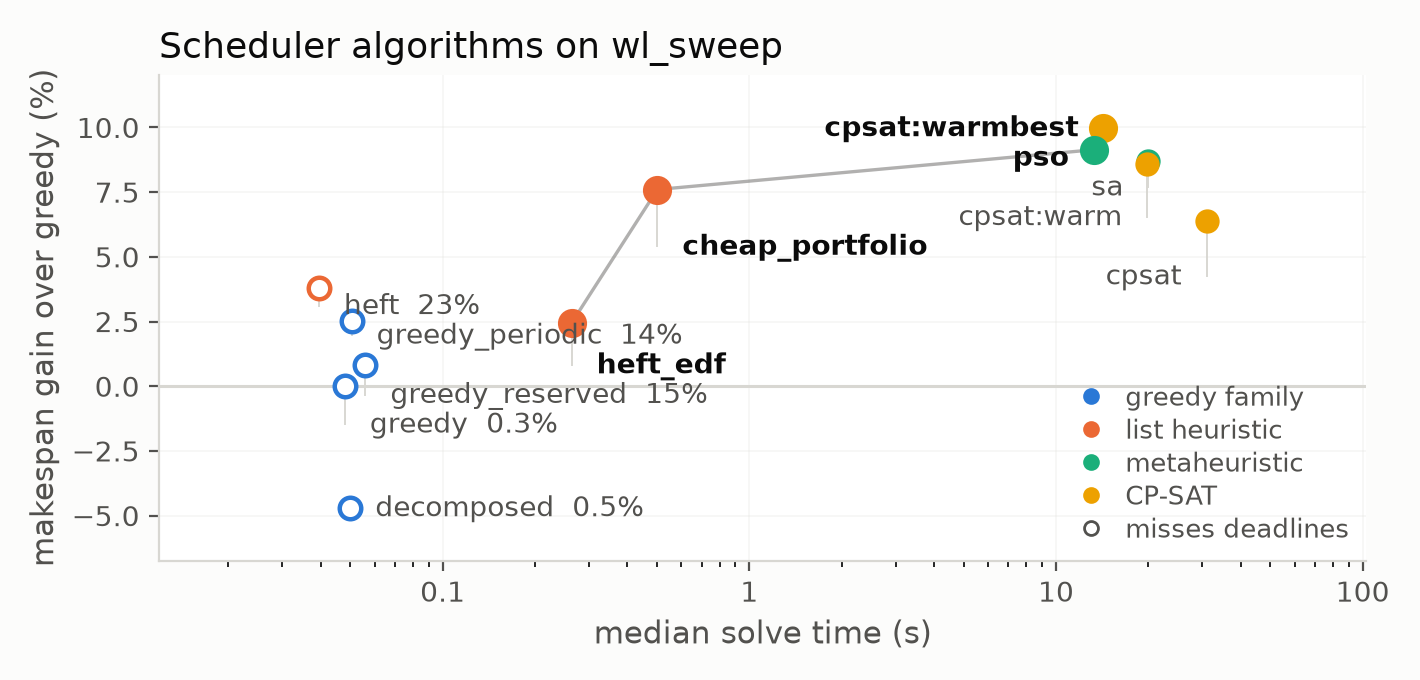
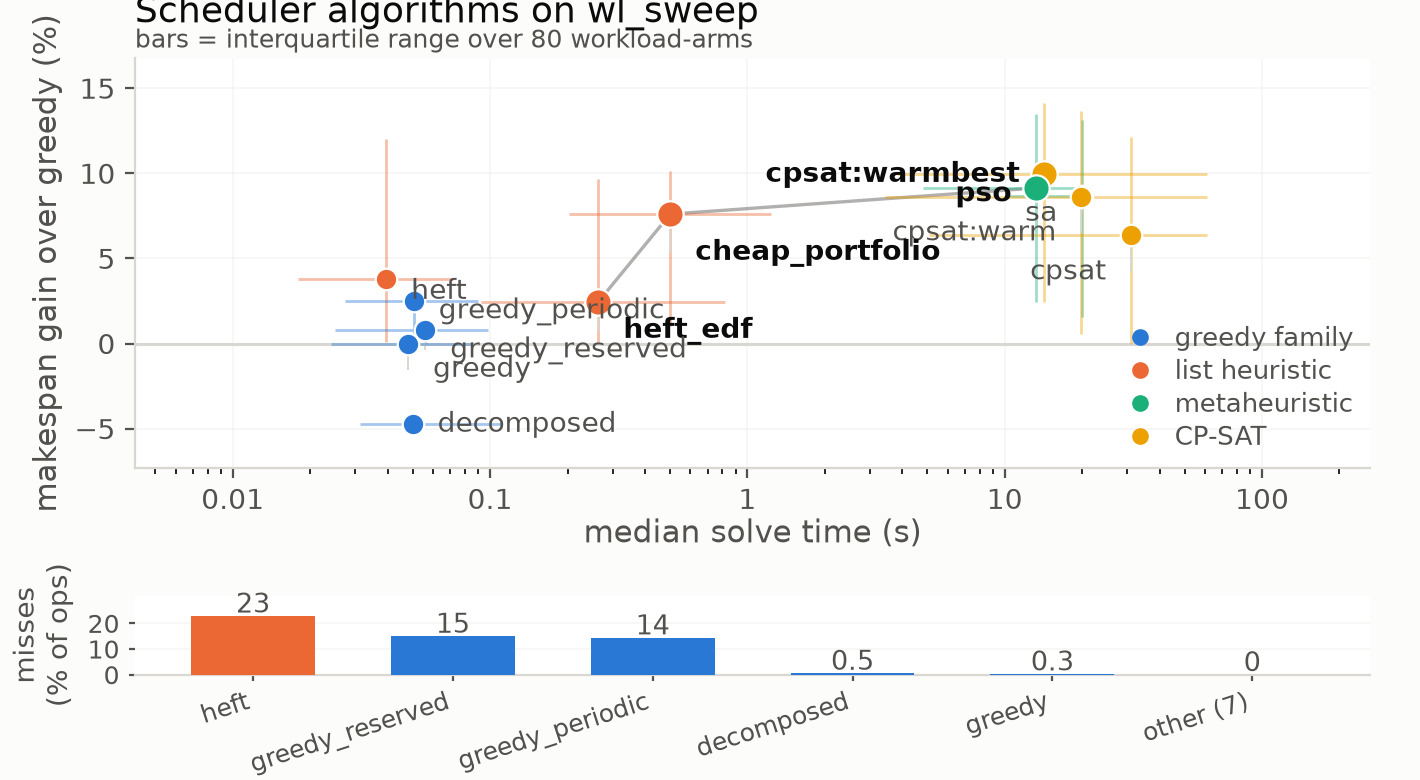
sched_algo_sweep10: show the interquartile spread, not just a point per solver
Each marker summarised 80 workload-arms and threw the sampling away. Two
solvers with the same mean can have completely different spread, and here they
do: heft's gain runs from about 0 to 12% across workloads while the greedy
family sits in a tight band, and cpsat's SOLVE TIME varies over more than a
decade where the heuristics barely move. Both axes now carry an interquartile
bar, which is also what makes the figure look as sampled as it actually is.

Applied to the config comparison too, where it shows the effect that split was
for: cpsat's solve-time bar moves right by a decade between the homogeneous and
heterogeneous halves.

Solve time by config, median seconds:

           homog  hetero  ratio
  cpsat    14.56   60.81  4.18x
  cpsat:warm 8.25  30.33  3.68x
  cpsat:wb   8.29  25.55  3.08x
  pso       14.74  12.48  0.85x
  sa        20.00  20.00  1.00x

So CP-SAT pays 3-4x more time on heterogeneous machines, and plain cpsat loses
5.7 points of quality at the same time -- worse and slower together, consistent
with heterogeneity multiplying the machine-assignment choices. The
metaheuristics look flat by comparison, but that reading is weak: pso and sa
are TIME-BUDGETED, which is why sa reads exactly 20.00 s in both halves. Their
wall time is a parameter, not a measurement.

diff --git a/experiments/sched_algo_sweep10/scripts/plot_pareto_configs.py b/experiments/sched_algo_sweep10/scripts/plot_pareto_configs.py
@@ -57,20 +57,26 @@ def stats(sub):
         except (TypeError, ValueError): pass
         po = int(float(r["periodic_ops"] or 0))
         if po: mp[s].append(int(float(r["misses"] or 0)) / po * 100.0)
+    def q(v):
+        a = statistics.quantiles(sorted(v), n=4)
+        return a[0], a[2]
     return ({s: statistics.mean(v) for s, v in imp.items()},
             {s: statistics.median(wall[s]) for s in imp},
-            {s: statistics.mean(mp[s]) if mp[s] else 0.0 for s in imp})
+            {s: statistics.mean(mp[s]) if mp[s] else 0.0 for s in imp},
+            {s: q(imp[s]) for s in imp}, {s: q(wall[s]) for s in imp})
 
 
 G = [(name, note) + stats([r for r in rows if r["pair"] in pairs])
      for name, pairs, note in GROUPS]
-allY = [v for _, _, Y, _, _ in G for v in Y.values()]
-allX = [v for _, _, _, X, _ in G for v in X.values()]
-ylim = (min(allY) - 1.5, max(allY) + 2.2)
-xlim = (min(allX) * 0.45, max(allX) * 2.6)
+allY = [v for _, _, Y, _, _, _, _ in G for v in Y.values()]
+allX = [v for _, _, _, X, _, _, _ in G for v in X.values()]
+allYQ = [b for _, _, _, _, _, YQ, _ in G for t in YQ.values() for b in t]
+allXQ = [b for _, _, _, _, _, _, XQ in G for t in XQ.values() for b in t]
+ylim = (min(allY + allYQ) - 1.2, max(allY + allYQ) + 2.0)
+xlim = (min(allX + allXQ) * 0.55, max(allX + allXQ) * 2.2)
 
 fig, axes = plt.subplots(1, 2, figsize=FIG) if WIDE else plt.subplots(2, 1, figsize=FIG)
-for ax, (name, note, Y, X, M) in zip(axes, G):
+for ax, (name, note, Y, X, M, YQ, XQ) in zip(axes, G):
     S = sorted(Y, key=lambda s: -Y[s])
     clean = [s for s in S if M[s] < 0.05]
     pts = sorted(((X[s], Y[s], s) for s in clean), key=lambda p: (p[0], -p[1]))
@@ -88,6 +94,9 @@ for ax, (name, note, Y, X, M) in zip(axes, G):
     mid = 10 ** (sum(math.log10(v) for v in X.values()) / len(X))
     for s in S:
         on = s in FRONT
+        # interquartile spread within this half of the sweep
+        ax.plot(XQ[s], [Y[s], Y[s]], color=FAMILY[s], lw=0.9, alpha=0.40, zorder=2)
+        ax.plot([X[s], X[s]], YQ[s], color=FAMILY[s], lw=0.9, alpha=0.40, zorder=2)
         ax.scatter([X[s]], [Y[s]], s=(52 if WIDE else 34) * (1.5 if on else 1.0),
                    color=FAMILY[s], edgecolor="white", linewidth=0.8, zorder=3)
         ly = label_y[s]
@@ -121,6 +130,6 @@ out = os.path.join(os.path.dirname(HERE), "plots",
                    "solver_pareto_configs_wide.png" if WIDE else "solver_pareto_configs.png")
 fig.savefig(out, dpi=200, facecolor="#fcfcfb")
 print("wrote", out)
-for name, note, Y, X, M in G:
+for name, note, Y, X, M, _YQ, _XQ in G:
     top = sorted(Y, key=lambda s: -Y[s])[:4]
     print(f"  {name:<15} top: " + ", ".join(f"{s} {Y[s]:.1f}%" for s in top))

diff --git a/experiments/sched_algo_sweep10/scripts/plot_pareto_compact.py b/experiments/sched_algo_sweep10/scripts/plot_pareto_compact.py
@@ -66,6 +66,18 @@ X = {s: statistics.median(wall[s]) for s in S}
 Y = {s: statistics.mean(imp[s]) for s in S}
 M = {s: statistics.mean(mpct[s]) for s in S}
 
+
+def iqr(v):
+    """25th/75th percentile. Each marker summarises 80 workload-arms and a bare
+    point throws that sampling away -- two solvers with the same mean can have
+    completely different spread, and on this data they do."""
+    q = statistics.quantiles(sorted(v), n=4)
+    return q[0], q[2]
+
+
+XQ = {s: iqr(wall[s]) for s in S}
+YQ = {s: iqr(imp[s]) for s in S}
+
 fig, (ax, bx) = plt.subplots(2, 1, figsize=FIG, sharex=False,
                              gridspec_kw=dict(height_ratios=[4.4, 0.85], hspace=0.52))
 
@@ -88,6 +100,11 @@ mid = 10 ** (sum(math.log10(v) for v in X.values()) / len(X))
 
 for s in S:
     x, y, col, on = X[s], Y[s], FAMILY[s], s in FRONT
+    # interquartile spread across the 80 workload-arms, both axes
+    ax.plot(XQ[s], [y, y], color=col, lw=1.0, alpha=0.42, zorder=2,
+            solid_capstyle="butt")
+    ax.plot([x, x], YQ[s], color=col, lw=1.0, alpha=0.42, zorder=2,
+            solid_capstyle="butt")
     ax.scatter([x], [y], s=(60 if WIDE else 40) * (1.5 if on else 1.0),
                color=col, edgecolor="white", linewidth=0.8, zorder=3)
     ly = label_y[s]
@@ -110,7 +127,10 @@ for sp in ("left", "bottom"): ax.spines[sp].set_color(GRID)
 ax.tick_params(colors=INK2, labelsize=FK)
 ax.set_xlabel("median solve time (s)", fontsize=FA, color=INK2, labelpad=1)
 ax.set_ylabel("makespan gain over greedy (%)", fontsize=FA, color=INK2)
-ax.set_title("Scheduler algorithms on wl_sweep", fontsize=FT, color=INK, loc="left")
+ax.set_title("Scheduler algorithms on wl_sweep", fontsize=FT, color=INK,
+             loc="left", pad=13)
+ax.text(0.0, 1.012, "bars = interquartile range over 80 workload-arms",
+        transform=ax.transAxes, fontsize=FG - 0.5, color=INK2, va="bottom")
 h = [Line2D([], [], marker="o", ls="", color=c, markersize=5, label=n)
      for c, n in FAMNAME.items()]
 ax.legend(handles=h, loc="lower right", frameon=False, fontsize=FG,
